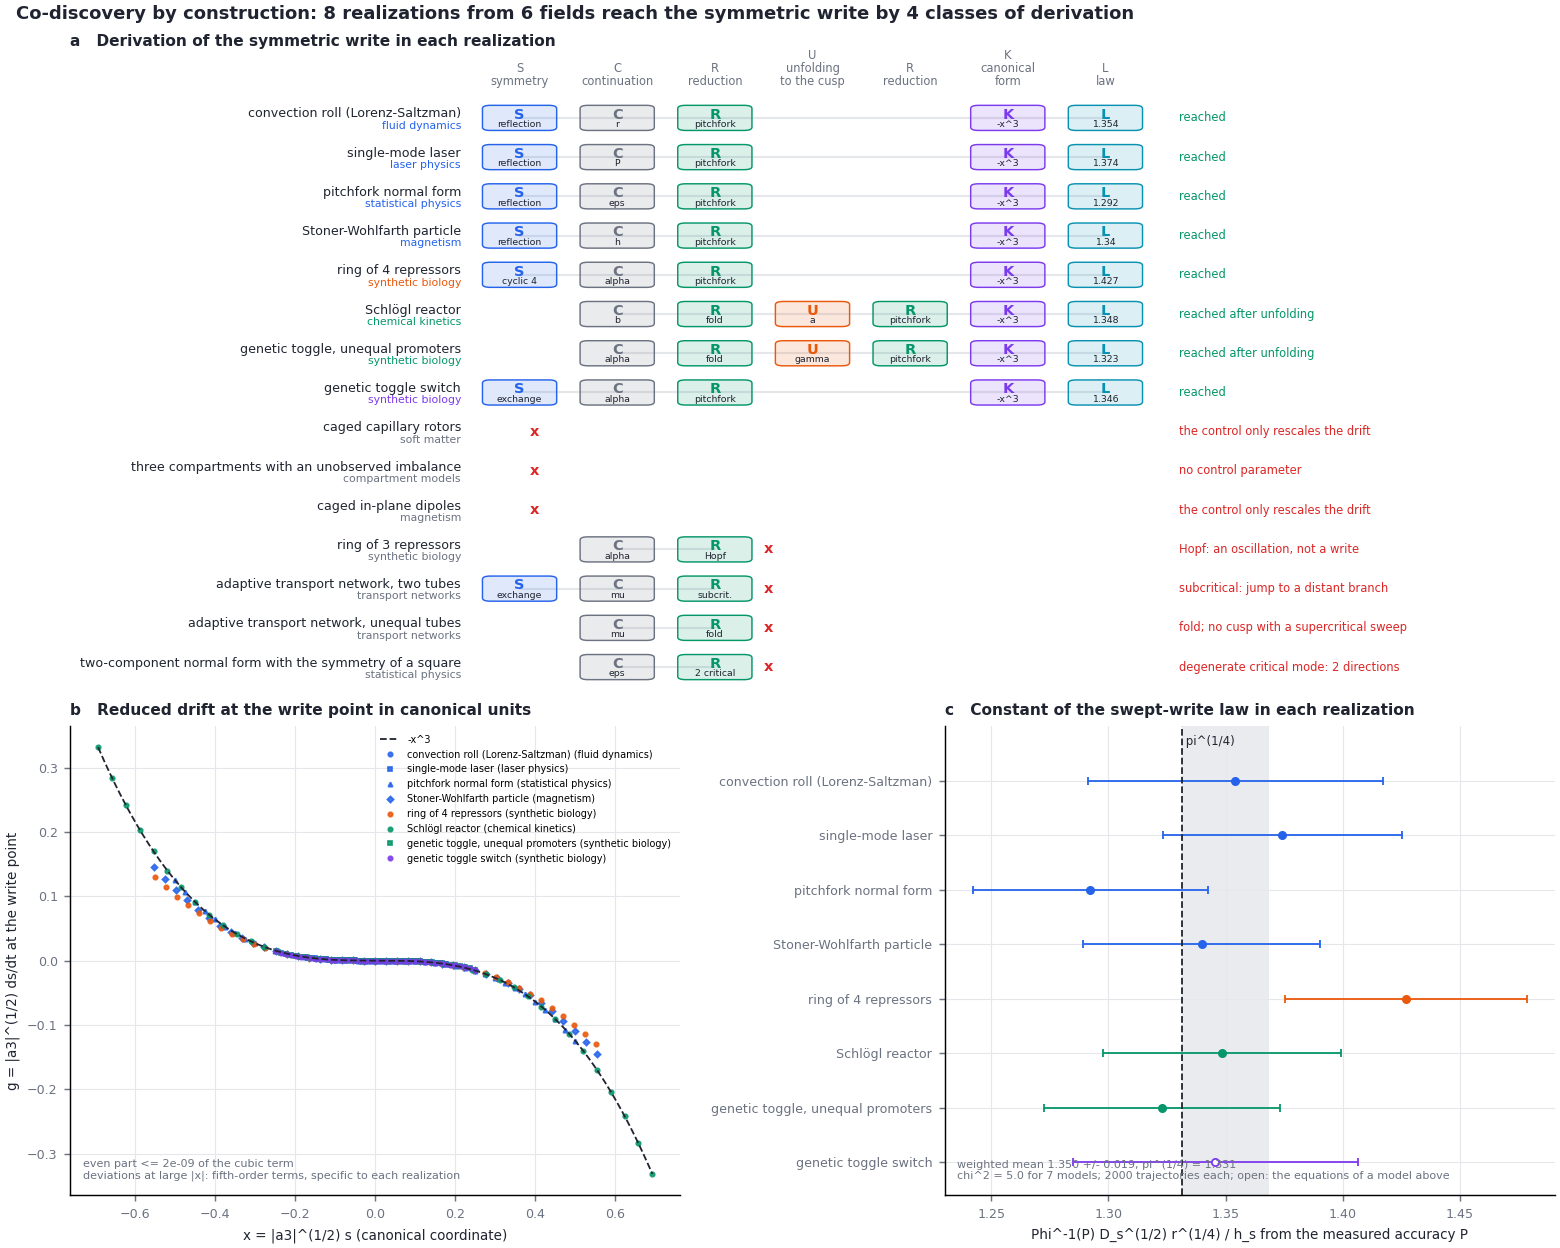
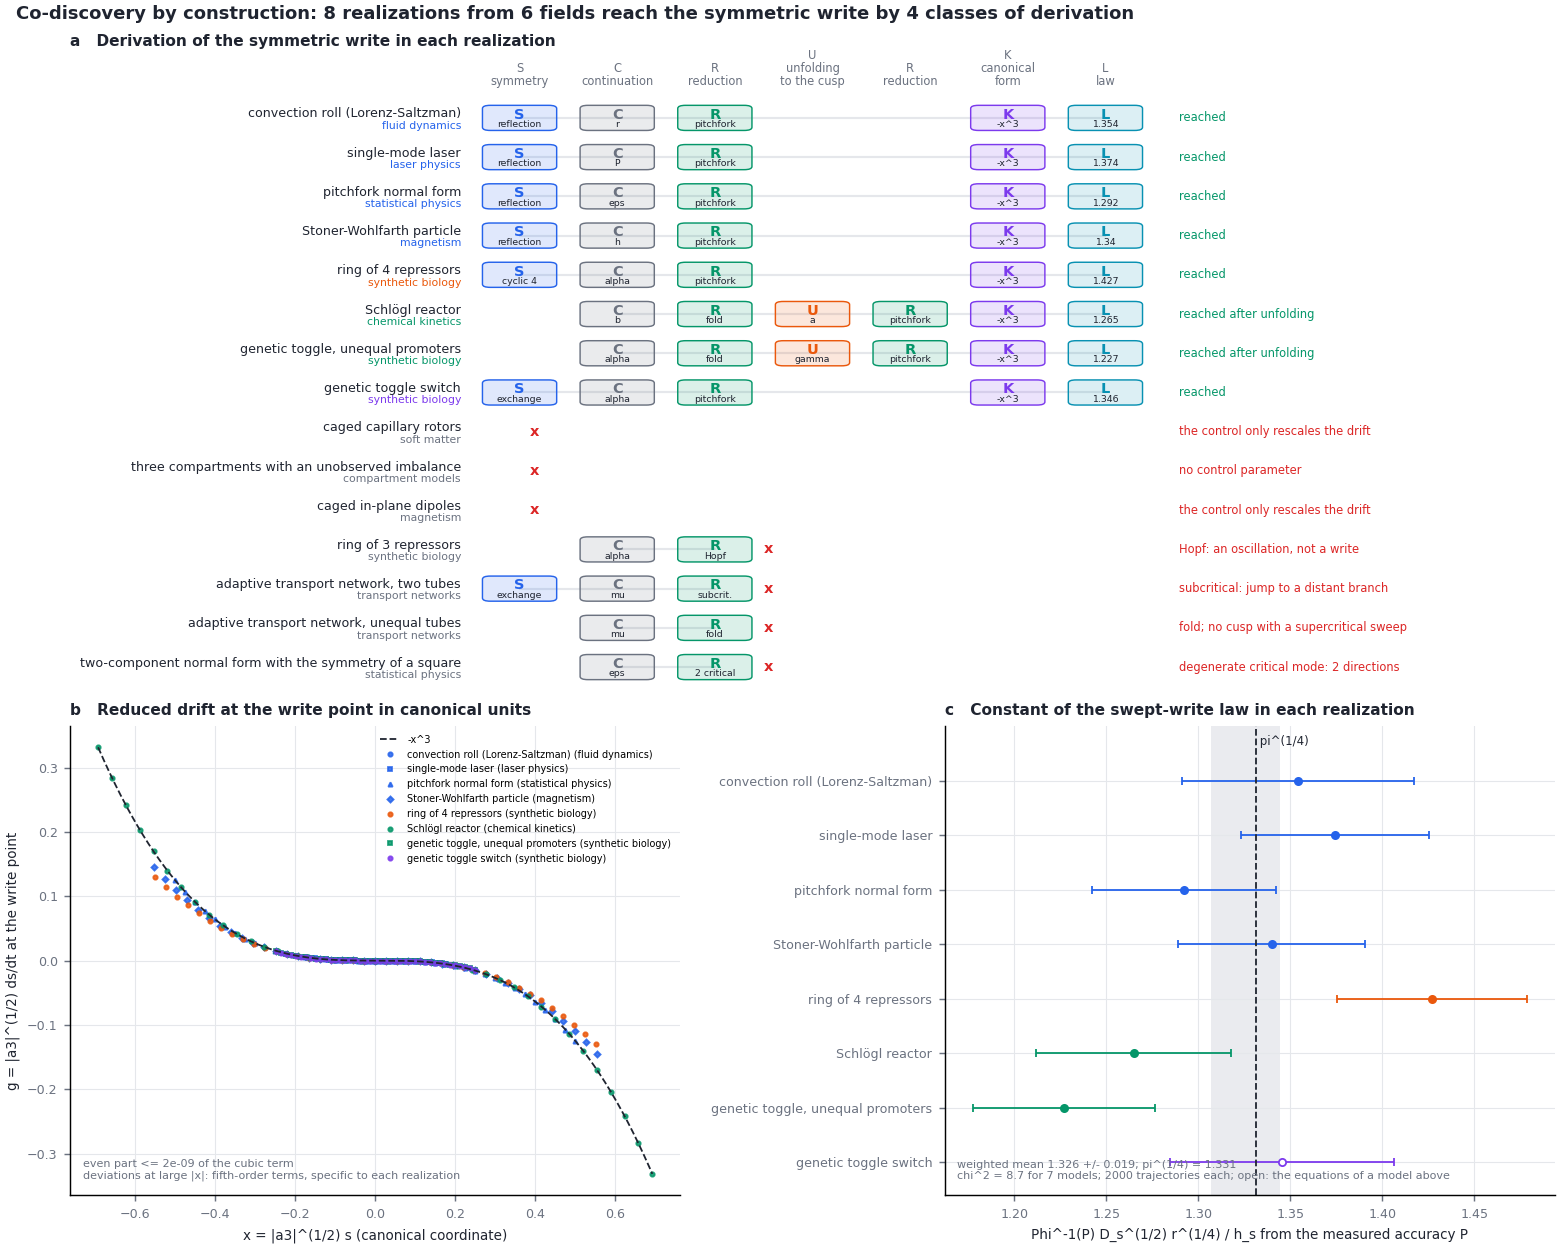
Regenerate the law record for the two-sign law test (two unfolded constants moved; 35 entries unchanged)
d929394 tests the swept-write law with the bias toward both states where the
derivation has no reversing symmetry. The record was regenerated with
build(law=True) under Python 3.11.3, numpy 1.26.0, scipy 1.14.1 and sympy 1.12,
the versions it lists (61 minutes). Its 28 nodes, every word and class, and the
constants and signatures of 35 entries are unchanged bit for bit; the
implementation hash changed. The two unfolded symmetric writes (CRURKL) moved:

- schlogl: 1.3358 +- 0.0156 -> 1.3219 +- 0.0154, offset -0.0046 +- 0.0154
- toggle_unequal: 1.3453 +- 0.0142 -> 1.3424 +- 0.0143, offset +0.0062 +- 0.0143

Over the eight models the weighted mean is 1.331 +- 0.005 with chi^2 = 3.6 for
8 values (was 1.332 +- 0.005, chi^2 = 3.4); the range 1.306 to 1.343 is
unchanged. Neither offset is resolved; the sweep of the unequal toggle keeps the
promoters equal and simulates the equations of the toggle.

Module 9 states the two-sign test and the numbers again. The default run with
2000 trajectories repeats every SCRKL constant; Schlögl 1.348 +- 0.051 ->
1.265 +- 0.053, unequal toggle 1.323 +- 0.050 -> 1.227 +- 0.050, weighted mean
1.350 +- 0.019 (chi^2 = 5.0) -> 1.326 +- 0.019 (chi^2 = 8.7 for 7 values);
seeds 11 to 14 give 1.331, 1.348, 1.290 and 1.324 (were 1.342, 1.352, 1.310,
1.323), with offsets between -0.029 and +0.062 and errors of 0.05 to 0.06. The
figure is that of the default run.

Changed region(s): [[0.7385, 0.875, 0.7692, 0.9062]]

diff --git a/docs/tutorial/23_memory_codiscovery.md b/docs/tutorial/23_memory_codiscovery.md
@@ -73,8 +73,8 @@ It writes `codiscover.json`, `codiscover.md` and `codiscover.png` and takes abou
 | ring of 4 repressors | synthetic biology | SCRKL | reached | $\alpha = 1.013$ | 1.427 ± 0.052 |
 | genetic toggle switch | synthetic biology | SCRKL | reached | $\alpha = 2$ | 1.346 ± 0.061 |
 | Stoner–Wohlfarth particle | magnetism | SCRKL | reached | $h = 1$ | 1.340 ± 0.051 |
-| Schlögl reactor | chemical kinetics | CRURKL | reached after unfolding | cusp $a = 4.153$, $b = 2.654$ | 1.348 ± 0.051 |
-| toggle, unequal promoters | synthetic biology | CRURKL | reached after unfolding | cusp $\gamma = 1.000$, $\alpha = 2.000$ | 1.323 ± 0.050 |
+| Schlögl reactor | chemical kinetics | CRURKL | reached after unfolding | cusp $a = 4.153$, $b = 2.654$ | 1.265 ± 0.053 |
+| toggle, unequal promoters | synthetic biology | CRURKL | reached after unfolding | cusp $\gamma = 1.000$, $\alpha = 2.000$ | 1.227 ± 0.050 |
 | ring of 3 repressors | synthetic biology | CR | stops at R: Hopf | — | — |
 | two equal tubes | transport networks | SCR | stops at R: subcritical | — | — |
 | two unequal tubes | transport networks | CR | stops at U: no supercritical cusp | — | — |
@@ -202,12 +202,24 @@ $$
 \pi^{1/4} \approx \frac{\Phi^{-1}(P)\, D_s^{1/2}\, r^{1/4}}{h_s}  \qquad (3)
 $$
 
+A sweep can itself favour one state, whatever the bias: a straight sweep through a cusp does, because the quadratic
+term that vanishes at the cusp grows along the sweep. Such an offset would be folded into a constant measured with
+one sign of the bias. Where the derivation has a reversing symmetry (S), the symmetry maps the test with the bias
+toward $-$mode onto the test toward $+$mode, so the write has no offset and one sign is tested. Otherwise (the two
+models reached by unfolding) half of the trajectories are biased toward each state. The constants $k_\pm$ that
+Eq. (3) gives for the two signs are slope $\pm$ offset: the law constant is the slope $(k_+ + k_-)/2$, and the
+offset $(k_+ - k_-)/2$ is reported separately and flagged when it exceeds two standard errors.
+
 The trajectories of each realization are split into eight runs on independent random streams, and the error of a
 constant is the larger of the scatter of the runs and the binomial error of the pooled accuracy. Each realization
 draws these streams from its own generator, set by the seed and the name of the material, so adding or removing a
 specification leaves the constants of the other realizations unchanged. With 2000 trajectories per realization and
-the default seed, the seven models have a weighted mean of $1.350 \pm 0.019$, against $\pi^{1/4} = 1.331$, with
-$\chi^2 = 5.0$ for 7 values. The seeds 11 to 14 give weighted means of 1.342, 1.352, 1.310 and 1.323. The accuracies
+the default seed, the seven models have a weighted mean of $1.326 \pm 0.019$, against $\pi^{1/4} = 1.331$, with
+$\chi^2 = 8.7$ for 7 values. The seeds 11 to 14 give weighted means of 1.331, 1.348, 1.290 and 1.324. The offsets
+of the two unfolded models are $+0.027 \pm 0.053$ (Schlögl reactor) and $+0.011 \pm 0.050$ (toggle with unequal
+promoters), and lie between $-0.029$ and $+0.062$ with errors of 0.05 to 0.06 for the seeds 11 to 14: neither sweep
+offsets the write at this precision. For the toggle none is expected: its sweep keeps the promoters equal, so it
+simulates the equations of the genetic toggle switch and has its exchange symmetry. The accuracies
 scatter between seeds as their binomial errors predict (a test with 16 seeds on three of the models), so one run of
 this size tests the constant to about 0.02; the record below is the precise test. The constant depends only on the
 canonical form. A derivation that ended on another mechanism, such as a fold, would give an accuracy that does not
@@ -218,9 +230,10 @@ realization in eight runs of 3200, for which the error of one constant is 0.014 
 the target; besides the two toggles, the normal form continued from below its write point simulates the equations of
 the normal form, so they are eight models. Their constants lie between 1.306 and 1.343 (the convection roll gives
 $1.333 \pm 0.014$, the two-component normal form with split rates of Section 5 $1.306 \pm 0.021$), with a weighted
-mean of $1.332 \pm 0.005$ and $\chi^2 = 3.4$ for 8 values: the scatter between models is that of the statistical
-error.
-With 400 trajectories the Schlögl reactor gave $1.04 \pm 0.11$; with 25,600 it gives $1.336 \pm 0.016$, so that
+mean of $1.331 \pm 0.005$ and $\chi^2 = 3.6$ for 8 values: the scatter between models is that of the statistical
+error. The offsets of the two unfolded models are $-0.005 \pm 0.015$ (Schlögl reactor) and $+0.006 \pm 0.014$
+(toggle with unequal promoters).
+With 400 trajectories the Schlögl reactor gave $1.04 \pm 0.11$; with 25,600 it gives $1.322 \pm 0.015$, so that
 value was a fluctuation. An earlier record drew all the trajectories of a constant from one stream, after the draws
 of the derivation, and counted the replicates as separate models; it gave $\chi^2 = 20$ for 8 values.
 
